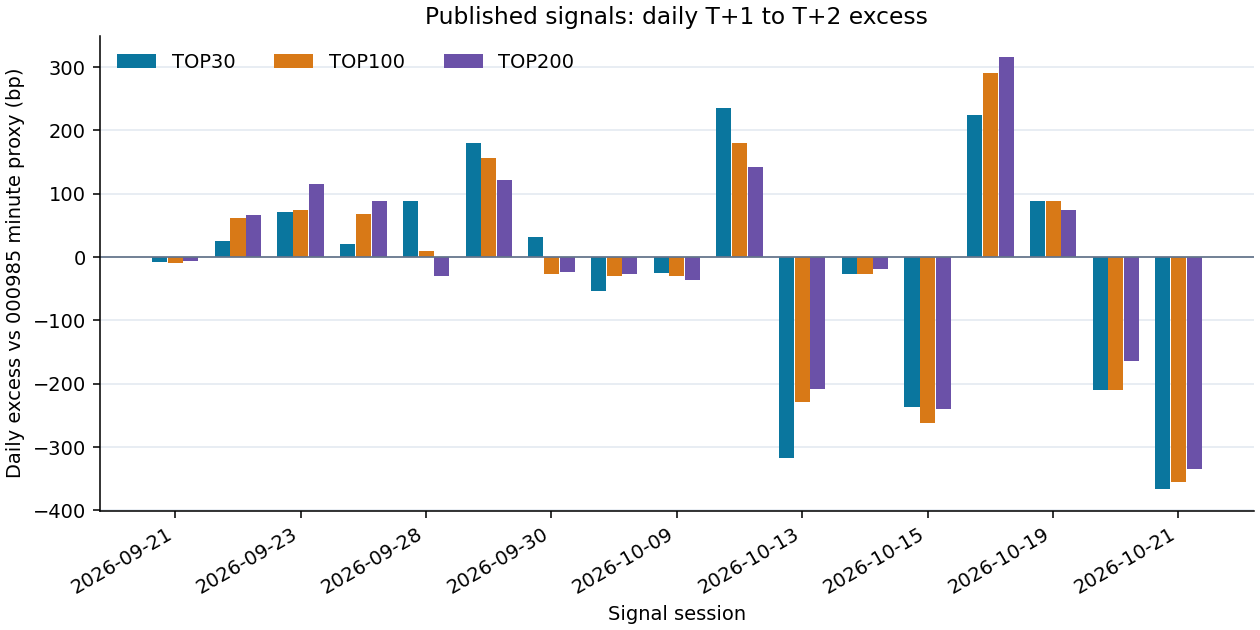
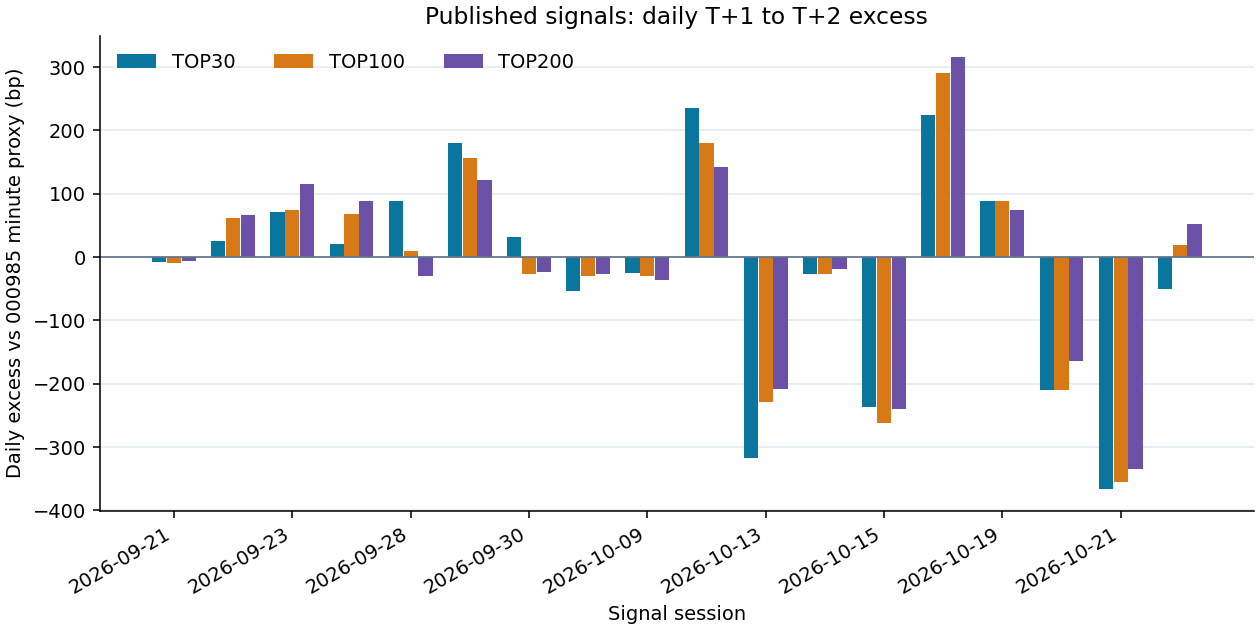
Update published signal performance through 2026-10-26

diff --git a/README.md b/README.md
@@ -17,13 +17,13 @@ CSV 编码为 UTF-8 BOM，按 `signal` 降序排列。
 <!-- PUBLIC_PERFORMANCE_START -->
 ## 已发布信号的历史表现
 
-仅统计本仓库 `signals/YYYY-MM-DD.csv` 已上传且买卖两日行情均完整的信号；截至 **2026-10-23**，共有 **17** 个已完成信号日，另有 **3** 个待结算或数据未齐。样本很短，暂无统计显著性结论。
+仅统计本仓库 `signals/YYYY-MM-DD.csv` 已上传且买卖两日行情均完整的信号；截至 **2026-10-26**，共有 **18** 个已完成信号日，另有 **2** 个待结算或数据未齐。样本很短，暂无统计显著性结论。
 
 | 组合 | 已完成信号日 | 组合累计收益 | 000985同期收益 | 累计超额 |
 |---|---:|---:|---:|---:|
-| TOP30 | 17 | -16.71% | -13.99% | -3.17% |
-| TOP100 | 17 | -16.43% | -13.99% | -2.84% |
-| TOP200 | 17 | -15.64% | -13.99% | -1.93% |
+| TOP30 | 18 | -15.72% | -12.52% | -3.65% |
+| TOP100 | 18 | -14.85% | -12.52% | -2.66% |
+| TOP200 | 18 | -13.77% | -12.52% | -1.43% |
 
 ![TOP30、TOP100、TOP200 累计超额净值](performance/excess_nav.png)
 
@@ -33,7 +33,6 @@ CSV 编码为 UTF-8 BOM，按 `signal` 降序排列。
 
 | 信号日 | 卖出日 | TOP30 | TOP100 | TOP200 |
 |---|---|---:|---:|---:|
-| 2026-10-08 | 2026-10-12 | -53.19 | -30.43 | -27.09 |
 | 2026-10-09 | 2026-10-13 | -25.56 | -30.50 | -36.28 |
 | 2026-10-12 | 2026-10-14 | +235.12 | +180.05 | +142.29 |
 | 2026-10-13 | 2026-10-15 | -316.98 | -228.14 | -208.05 |
@@ -43,6 +42,7 @@ CSV 编码为 UTF-8 BOM，按 `signal` 降序排列。
 | 2026-10-19 | 2026-10-21 | +88.42 | +88.98 | +75.06 |
 | 2026-10-20 | 2026-10-22 | -209.83 | -209.68 | -164.75 |
 | 2026-10-21 | 2026-10-23 | -366.22 | -354.51 | -334.00 |
+| 2026-10-22 | 2026-10-26 | -50.77 | +19.17 | +51.67 |
 
 ![TOP30、TOP100、TOP200 逐日超额](performance/daily_excess.png)
 
